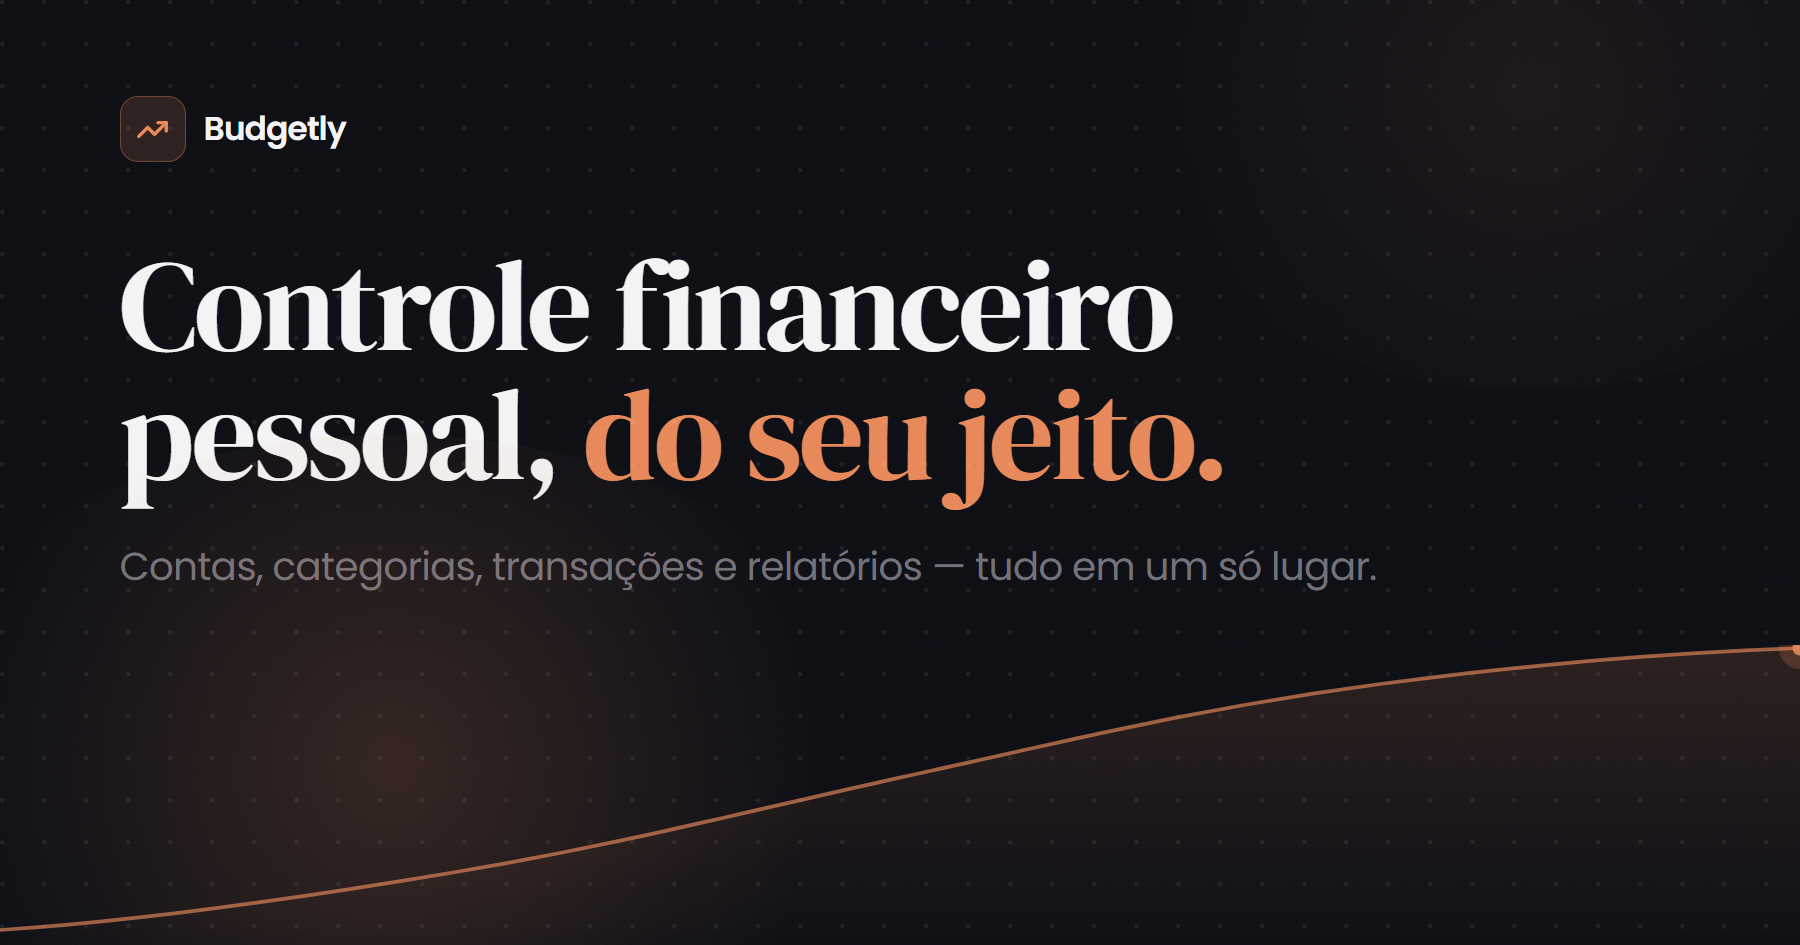
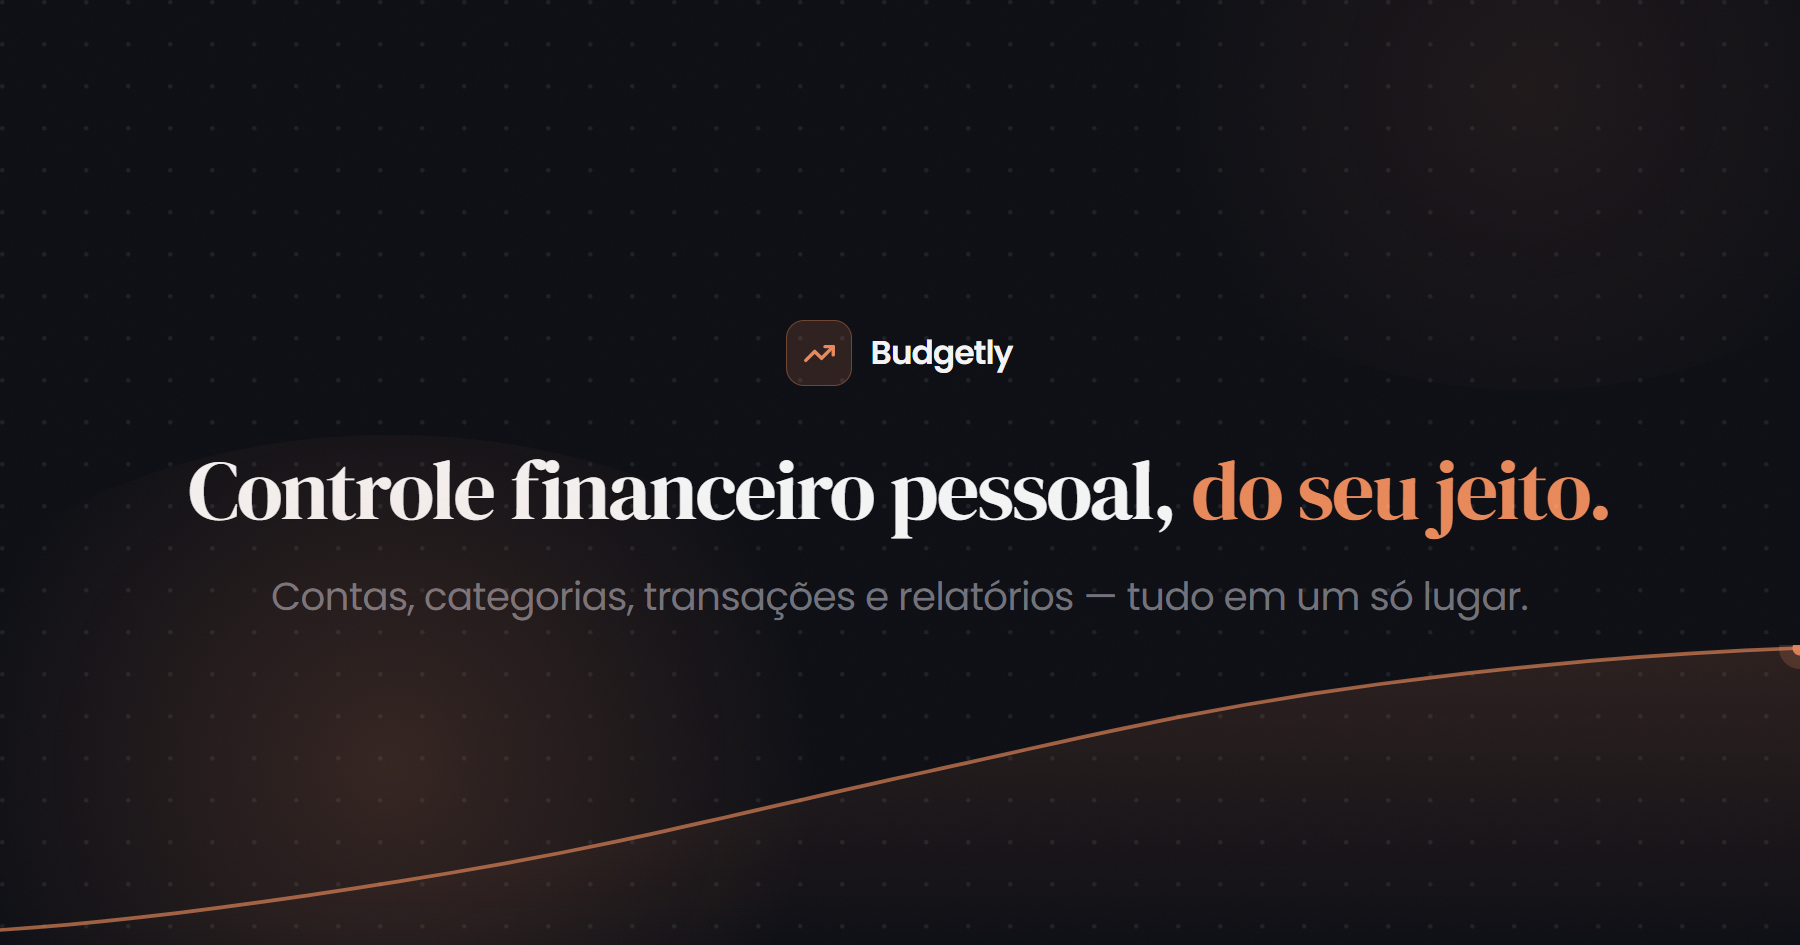
Update OG image asset and layout
Adjust OG image component styles and replace the OG PNG. Center content by adding alignItems and justifyContent, change padding to '0 80px', and center-align headline text. Reduce headline font size (86 -> 56), tweak line-height (1.0 -> 1.05) and spacing (marginBottom 52 -> 40, paragraph margin 28 -> 24), and remove whiteSpace: 'nowrap' so text can wrap. Also update the public/og.png binary asset.

Changed region(s): [[0.0622, 0.2762, 0.9022, 0.6444], [0.0622, 0.0921, 0.1867, 0.1841]]

diff --git a/budgetly-app-frontend/src/components/og-image.tsx b/budgetly-app-frontend/src/components/og-image.tsx
@@ -9,7 +9,9 @@ export function OgImage() {
         overflow: 'hidden',
         display: 'flex',
         flexDirection: 'column',
-        padding: '64px 80px 0',
+        alignItems: 'center',
+        justifyContent: 'center',
+        padding: '0 80px',
         fontFamily: 'var(--font-poppins, sans-serif)',
       }}
     >
@@ -111,7 +113,7 @@ export function OgImage() {
           display: 'flex',
           alignItems: 'center',
           gap: 12,
-          marginBottom: 52,
+          marginBottom: 40,
         }}
       >
         <div
@@ -156,31 +158,29 @@ export function OgImage() {
       </div>
 
       {/* Headline */}
-      <div style={{ flex: 1, display: 'flex', flexDirection: 'column' }}>
+      <div style={{ display: 'flex', flexDirection: 'column', alignItems: 'center', textAlign: 'center' }}>
         <h1
           style={{
             margin: 0,
-            fontSize: 86,
+            fontSize: 56,
             fontFamily: 'var(--font-serif-display, Georgia, serif)',
             color: '#F4F4F5',
-            lineHeight: 1.0,
+            lineHeight: 1.05,
             letterSpacing: '-0.025em',
             fontWeight: 400,
           }}
         >
-          Controle financeiro
-          <br />
-          pessoal, <span style={{ color: '#E8895A' }}>do seu jeito.</span>
+          Controle financeiro pessoal,{' '}
+          <span style={{ color: '#E8895A' }}>do seu jeito.</span>
         </h1>
 
         <p
           style={{
-            margin: '28px 0 0',
+            margin: '24px 0 0',
             fontSize: 26,
             color: '#71717A',
             letterSpacing: '-0.02em',
             lineHeight: 1.4,
-            whiteSpace: 'nowrap',
             fontWeight: 400,
           }}
         >
